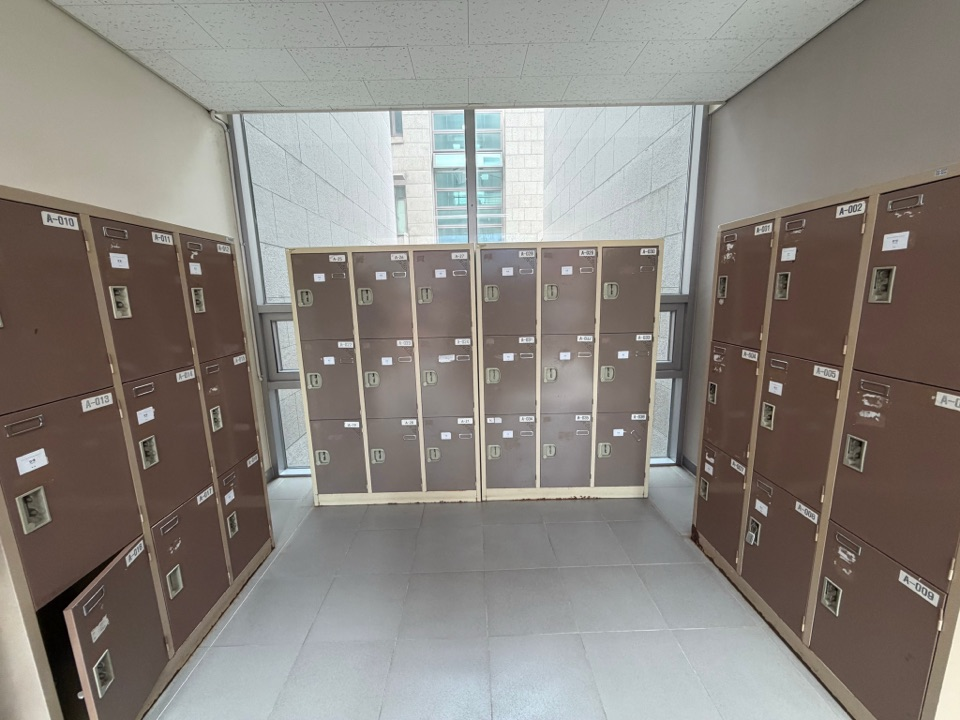
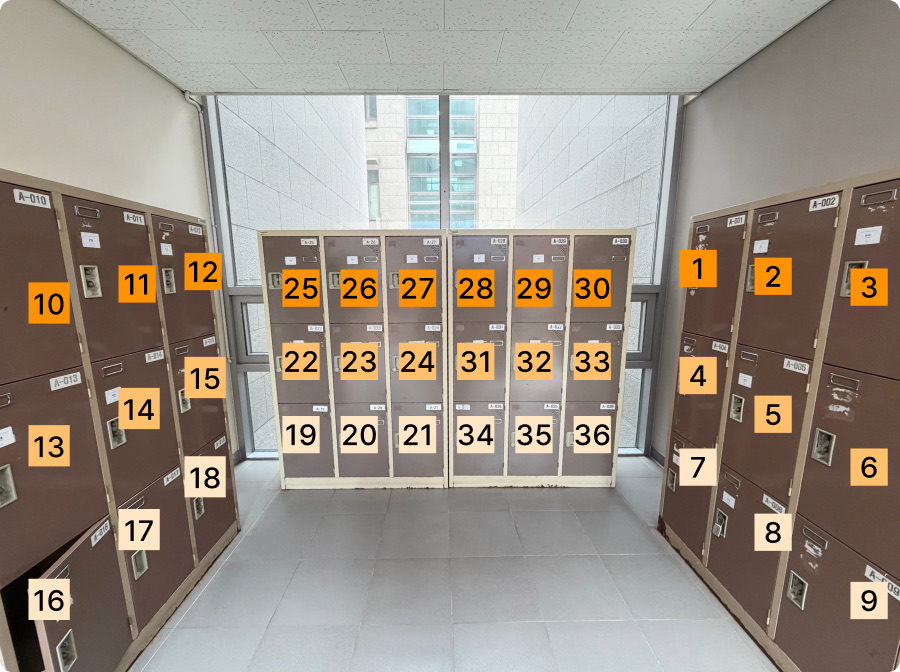
chore: 사물함 A-1·A-2 목업 사진을 번호 표시 사진으로 교체

diff --git a/src/features/lockers/constants/lockersSectionDetails.ts b/src/features/lockers/constants/lockersSectionDetails.ts
@@ -1,4 +1,5 @@
 import sectionA1Photo from "@/assets/images/lockers/section-a-1-photo.jpg";
+import sectionA2Photo from "@/assets/images/lockers/section-a-2-photo.jpg";
 
 // 구역 상세 응답(GET /v1/app/lockers/sections/{sectionId}). layout은 구조만 갖고 칸 상태는 lockers에서
 // 온다 — 둘은 lockerNumber로 잇는다.
@@ -177,7 +178,6 @@ const A1_SECTION: LockersSectionDetail = {
 };
 
 // Figma: A-2구역 (nodeId 2159:109533)
-// A-2 사진이 아직 없어서 A-1 사진을 임시로 쓴다.
 const A2_SECTION: LockersSectionDetail = {
   layout: {
     root: {
@@ -221,7 +221,7 @@ const A2_SECTION: LockersSectionDetail = {
     version: 1,
   },
   lockers: createMockLockers("A", range(82, 90)),
-  photoUrl: sectionA1Photo,
+  photoUrl: sectionA2Photo,
   section: "A-2",
   sectionId: 2,
 };
